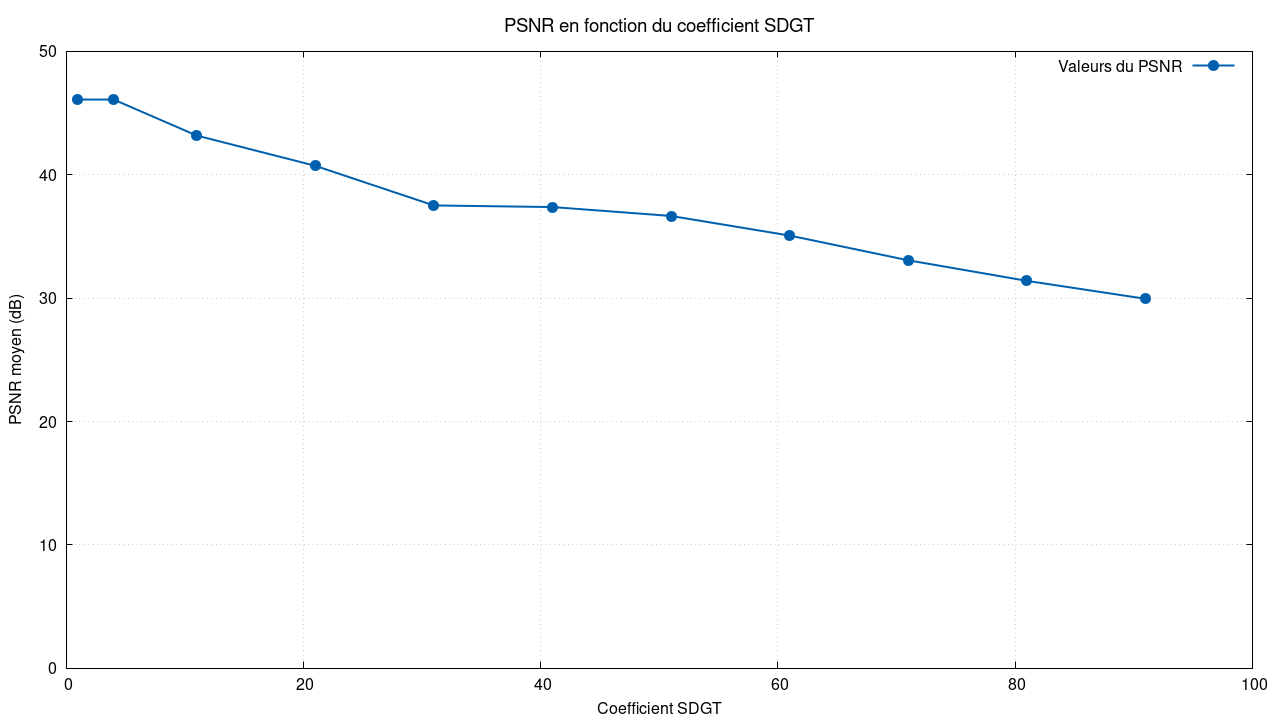
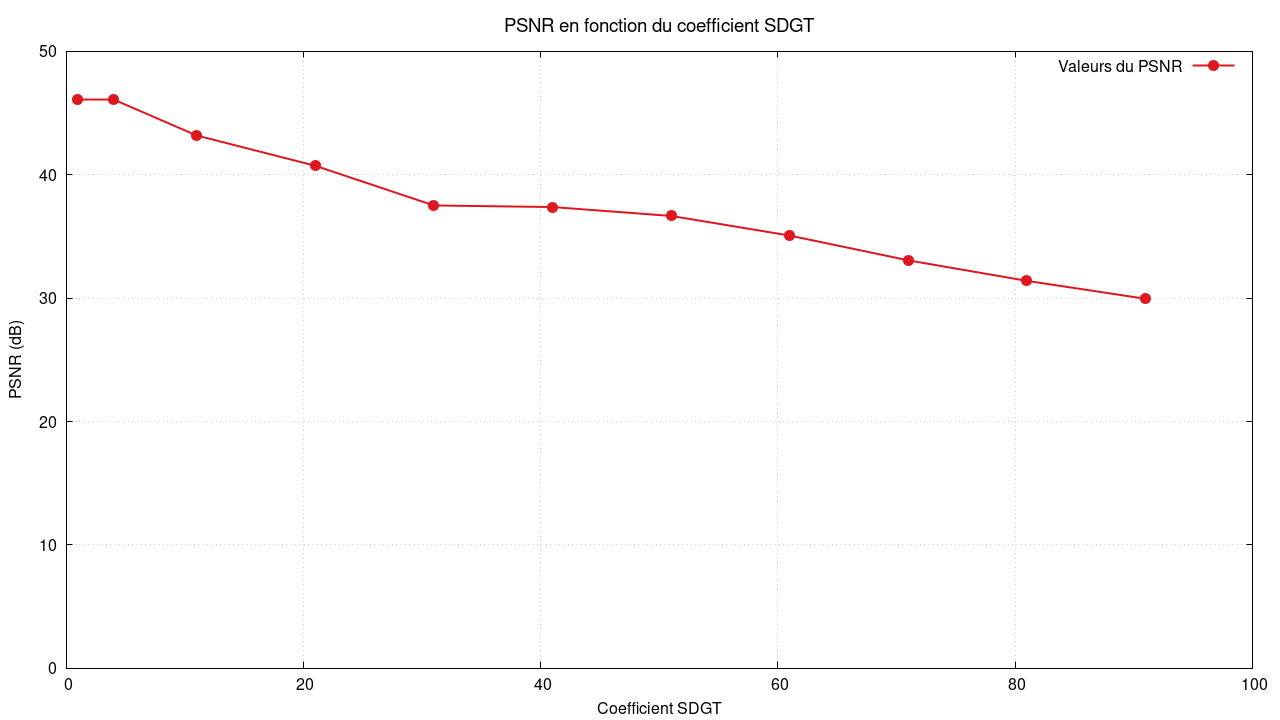
ajout de deux fonction pour calculer des courbe pour SDGT sur reductionPercentage

diff --git a/QT_version/ImageUtils.cpp b/QT_version/ImageUtils.cpp
@@ -9,6 +9,7 @@
 #include <algorithm>
 #include <iostream>
 #include "SDGT.h"
+#include "timer.h"
 
 std::uintmax_t getFileSize(const std::string& filename) {
     return std::filesystem::file_size(filename);
@@ -1002,12 +1003,12 @@ void traceCourbesPSNRCoeffSDGT(QWidget* parent, char* imagePath){
         // Improved title and labels
         fprintf(pipe, "set title 'PSNR en fonction du coefficient SDGT' font 'Arial,14'\n");
         fprintf(pipe, "set xlabel 'Coefficient SDGT' font 'Arial,12'\n");
-        fprintf(pipe, "set ylabel 'PSNR moyen (dB)' font 'Arial,12'\n");
+        fprintf(pipe, "set ylabel 'PSNR (dB)' font 'Arial,12'\n");
 
         // Add grid and improve styling
         fprintf(pipe, "set grid\n");
         fprintf(pipe, "set key top right\n");
-        fprintf(pipe, "set style line 1 lc rgb '#0060ad' lt 1 lw 2 pt 7 ps 1.5\n");
+        fprintf(pipe, "set style line 1 lc rgb '#dd181f' lt 1 lw 2 pt 7 ps 1.5\n");
 
         // Set x-axis range to extend beyond the maximum K value
         fprintf(pipe, "set xrange [0:100]\n");
@@ -1031,4 +1032,222 @@ void traceCourbesPSNRCoeffSDGT(QWidget* parent, char* imagePath){
         std::cerr << "Could not open gnuplot" << std::endl;
     }
     std::cout << "Fin de l'affichage des PSNR en fonction de Coeff" << std::endl;
+}
+
+void traceCourbesTauxSDGTreductionPercentage(QWidget* parent, char* imagePath){
+    //créé 10 image SDGT avec des reductionPercentage de 0 à 10 par pas de 1 car torp long
+    std::vector<float> tauxValues;
+    std::vector<int> reductionPercentageValues;
+    std::cout << "Calcul des taux de compression pour différentes valeurs de reductionPercentage..." << std::endl;
+    int totalSteps = 10;
+    int currentStep = 0;
+    std::string fileName = imagePath;
+    fileName = fileName.substr(fileName.find_last_of("/\\") + 1);
+    //creation des image SDGT
+    Timer timer;
+    for(int reductionPercentage = 0; reductionPercentage <= 10; reductionPercentage += 1){
+        
+
+        std::string cheminImageSDGT = "../../src/image/cache/SDGT_reductionPercentage" + std::to_string(reductionPercentage) + "_" + fileName;
+        char *cheminImageOut = stringduplicate(cheminImageSDGT.c_str());
+
+        //si l'image existe deja, on ne la recrée pas car trop long
+        if (std::filesystem::exists(cheminImageSDGT)) {
+            std::cout << "Image SDGT déjà existante, pas besoin de la recréer." << std::endl;
+
+        }else{
+            // Process image with SDGT with the specific K value
+            bool success = SDGT(parent, stringduplicate(imagePath), cheminImageOut, 400000, 10, reductionPercentage, 1);
+
+            if (success) {
+                std::cout << "SDGT appliqué avec succès!" << std::endl;
+                std::cout << "Image sauvegardée à: " << cheminImageOut << std::endl;
+            } else {
+                std::cerr << "Erreur lors de l'application de SDGT" << std::endl;
+                exit(1);
+            }
+        }
+
+
+
+        // Update and print progress
+        currentStep++;
+        int progress = (currentStep * 100) / totalSteps;
+        std::cout << "\rProgress: " << progress << "% - Completed processing: " << imagePath;
+        std::cout.flush();
+
+        //remplir les tableau de psnr et coeff
+        cv::Mat originalImage = cv::imread(imagePath);
+        if(originalImage.empty()) {
+            std::cerr << "Could not open or find the image" << std::endl;
+            return;
+        }
+        cv::Mat modifiedImageSDGT = cv::imread(cheminImageSDGT);
+        if(modifiedImageSDGT.empty()) {
+            std::cerr << "ERROR: Could not open or find the processed image: " << cheminImageSDGT << std::endl;
+            std::exit(EXIT_FAILURE);
+        }
+        
+        tauxValues.push_back(((float)getFileSize(imagePath)) / ((float)getFileSize(cheminImageSDGT)));
+        reductionPercentageValues.push_back(reductionPercentage);
+        printf("\n \n");
+
+        std::cout << "Time: " << timer.elapsed() << "s" << std::endl; 
+        printf("\n \n");
+
+
+    }
+    timer.stop();
+
+    //afficher les valeur de tauxValues 
+    std::cout << std::endl << "Valeurs de taux de compression : " << std::endl;
+    for (size_t i = 0; i < tauxValues.size(); i++) {
+        std::cout << "Reduction Percentage = " << reductionPercentageValues[i] << " : " << tauxValues[i] << std::endl;
+    }
+
+    std::cout << std::endl << "Affichage des taux de compression en fonction de reductionPercentage..." << std::endl;
+    // Affichage le graphe des taux de compression en fonction de K en utilisant gnuplot
+    FILE *pipe = popen("gnuplot -persist", "w");
+    if (pipe) {
+        // Save to both screen and file
+        fprintf(pipe, "set terminal pngcairo size 1280,720 enhanced font 'Arial,12'\n");
+        fprintf(pipe, "set output 'taux_compression_reductionPercentage_SDGT.png'\n");
+
+        // Improved title and labels
+        fprintf(pipe, "set title 'Taux de compression en fonction de réduction de superpixel' font 'Arial,14'\n");
+        fprintf(pipe, "set xlabel 'Réduction de superpixel (%)' font 'Arial,12'\n");
+        fprintf(pipe, "set ylabel 'Taux de compression' font 'Arial,12'\n");
+
+        // Add grid and improve styling
+        fprintf(pipe, "set grid\n");
+        fprintf(pipe, "set key top right\n");
+        fprintf(pipe, "set style line 1 lc rgb '#dd181f' lt 1 lw 2 pt 7 ps 1.5\n");
+
+        // Set x-axis range to extend beyond the maximum K value
+        fprintf(pipe, "set xrange [0:10]\n");
+        fprintf(pipe, "set yrange [0.9:1.45]\n");
+
+        // Plot with improved styling
+        fprintf(pipe, "plot '-' with linespoints ls 1 title 'Valeurs du Taux de compression'\n");
+        for (size_t i = 0; i < tauxValues.size(); i++) {
+            fprintf(pipe, "%d %f\n", reductionPercentageValues[i], tauxValues[i]);
+        }
+        fprintf(pipe, "e\n");
+
+        // Create a second plot for interactive viewing
+        fprintf(pipe, "set terminal wxt\n");
+        fprintf(pipe, "set output\n");
+        fprintf(pipe, "replot\n");
+
+        fflush(pipe);
+        pclose(pipe);
+    } else {
+        std::cerr << "Could not open gnuplot" << std::endl;
+    }
+    std::cout << "Fin de l'affichage des taux de compression en fonction de reductionPercentage" << std::endl;
+
+}
+
+void traceCourbesPSNRSDGTreductionPercentage(QWidget* parent, char* imagePath){
+    //créé 10 image SDGT avec des reductionPercentage de 0 à 10 par pas de 1 car torp long
+    std::vector<float> psnrValues;
+    std::vector<int> reductionPercentageValues;
+    std::cout << "Calcul des PSNR pour différentes valeurs de reductionPercentage..." << std::endl;
+    int totalSteps = 10;
+    int currentStep = 0;
+    std::string fileName = imagePath;
+    fileName = fileName.substr(fileName.find_last_of("/\\") + 1);
+    //creation des image SDGT
+    Timer timer;
+    for(int reductionPercentage = 0; reductionPercentage <= 10; reductionPercentage += 1){
+        
+
+        std::string cheminImageSDGT = "../../src/image/cache/SDGT_reductionPercentage" + std::to_string(reductionPercentage) + "_" + fileName;
+        char *cheminImageOut = stringduplicate(cheminImageSDGT.c_str());
+
+        //si l'image existe deja, on ne la recrée pas car trop long
+        if (std::filesystem::exists(cheminImageSDGT)) {
+            std::cout << "Image SDGT déjà existante, pas besoin de la recréer." << std::endl;
+
+        }else{
+            // Process image with SDGT with the specific K value
+            bool success = SDGT(parent, stringduplicate(imagePath), cheminImageOut, 400000, 10, reductionPercentage, 1);
+
+            if (success) {
+                std::cout << "SDGT appliqué avec succès!" << std::endl;
+                std::cout << "Image sauvegardée à: " << cheminImageOut << std::endl;
+            } else {
+                std::cerr << "Erreur lors de l'application de SDGT" << std::endl;
+                exit(1);
+            }
+        }
+
+        // Update and print progress
+        currentStep++;
+        int progress = (currentStep * 100) / totalSteps;
+        std::cout << "\rProgress: " << progress << "% - Completed processing: " << imagePath;
+        std::cout.flush();
+        //remplir les tableau de psnr et coeff
+        cv::Mat originalImage = cv::imread(imagePath);
+        if(originalImage.empty()) {
+            std::cerr << "Could not open or find the image" << std::endl;
+            return;
+        }
+        cv::Mat modifiedImageSDGT = cv::imread(cheminImageSDGT);
+        if(modifiedImageSDGT.empty()) {
+            std::cerr << "ERROR: Could not open or find the processed image: " << cheminImageSDGT << std::endl;
+            std::exit(EXIT_FAILURE);
+        }
+        psnrValues.push_back(PSNR(originalImage, modifiedImageSDGT));
+        reductionPercentageValues.push_back(reductionPercentage);
+        printf("\n \n");
+        std::cout << "Time: " << timer.elapsed() << "s" << std::endl;
+        printf("\n \n");
+    }
+    timer.stop();
+    //afficher les valeur de tauxValues
+    std::cout << std::endl << "Valeurs de PSNR : " << std::endl;
+    for (size_t i = 0; i < psnrValues.size(); i++) {
+        std::cout << "Reduction Percentage = " << reductionPercentageValues[i] << " : " << psnrValues[i] << std::endl;
+    }
+    std::cout << std::endl << "Affichage des PSNR en fonction de reductionPercentage..." << std::endl;
+    // Affichage le graphe des PSNR en fonction de K en utilisant gnuplot
+    FILE *pipe = popen("gnuplot -persist", "w");
+    if (pipe) {
+        // Save to both screen and file
+        fprintf(pipe, "set terminal pngcairo size 1280,720 enhanced font 'Arial,12'\n");
+        fprintf(pipe, "set output 'psnr_reductionPercentage_SDGT.png'\n");
+
+        // Improved title and labels
+        fprintf(pipe, "set title 'PSNR en fonction de réduction de superpixel' font 'Arial,14'\n");
+        fprintf(pipe, "set xlabel 'Réduction de superpixel (%)' font 'Arial,12'\n");
+        fprintf(pipe, "set ylabel 'PSNR (dB)' font 'Arial,12'\n");
+
+        // Add grid and improve styling
+        fprintf(pipe, "set grid\n");
+        fprintf(pipe, "set key top right\n");
+        fprintf(pipe, "set style line 1 lc rgb '#dd181f' lt 1 lw 2 pt 7 ps 1.5\n");
+
+        // Set x-axis range to extend beyond the maximum K value
+        fprintf(pipe, "set xrange [0:10]\n");
+        fprintf(pipe, "set yrange [0:50]\n");
+
+        // Plot with improved styling
+        fprintf(pipe, "plot '-' with linespoints ls 1 title 'Valeurs du PSNR'\n");
+        for (size_t i = 0; i < psnrValues.size(); i++) {
+            fprintf(pipe, "%d %f\n", reductionPercentageValues[i], psnrValues[i]);
+        }
+        fprintf(pipe, "e\n");
+
+        // Create a second plot for interactive viewing
+        fprintf(pipe, "set terminal wxt\n");
+        fprintf(pipe, "set output\n");
+        fprintf(pipe, "replot\n");
+
+        fflush(pipe);
+        pclose(pipe);
+    } else {
+        std::cerr << "Could not open gnuplot" << std::endl;
+    }
+    std::cout << "Fin de l'affichage des PSNR en fonction de reductionPercentage" << std::endl;
 }

diff --git a/QT_version/main.cpp b/QT_version/main.cpp
@@ -83,7 +83,10 @@ int main(int argc, char *argv[])
     // traceCourbesTauxSuperpixelsAVGCustom(imagePathsDessin, "dessin");
     // traceCourbesTauxSuperpixelsAVGCustom(imagePathsNumerique, "images-numériques");
 
-    traceCourbesPSNRCoeffSDGT(&parentWidget, "../../src/image/absolute-batman.jpg");
+    // traceCourbesPSNRCoeffSDGT(&parentWidget, "../../src/image/absolute-batman.jpg");
+    // traceCourbesTauxSDGTreductionPercentage(&parentWidget, "../../src/image/absolute-batman.jpg");
+    // traceCourbesPSNRSDGTreductionPercentage(&parentWidget, "../../src/image/absolute-batman.jpg");
+
 
 
     

diff --git a/QT_version/ImageUtils.h b/QT_version/ImageUtils.h
@@ -21,5 +21,8 @@ void comparePSNRCurves(std::vector<std::string> &imagePaths);
 void traceCourbesTauxSuperpixelsAVGCustom(std::vector<std::string> &imagePaths, const std::string& customTitle);
 
 void traceCourbesPSNRCoeffSDGT(QWidget* parent, char* imagePath);
+void traceCourbesTauxSDGTreductionPercentage(QWidget* parent, char* imagePath);
+void traceCourbesPSNRSDGTreductionPercentage(QWidget* parent, char* imagePath);
+
 
 #endif
